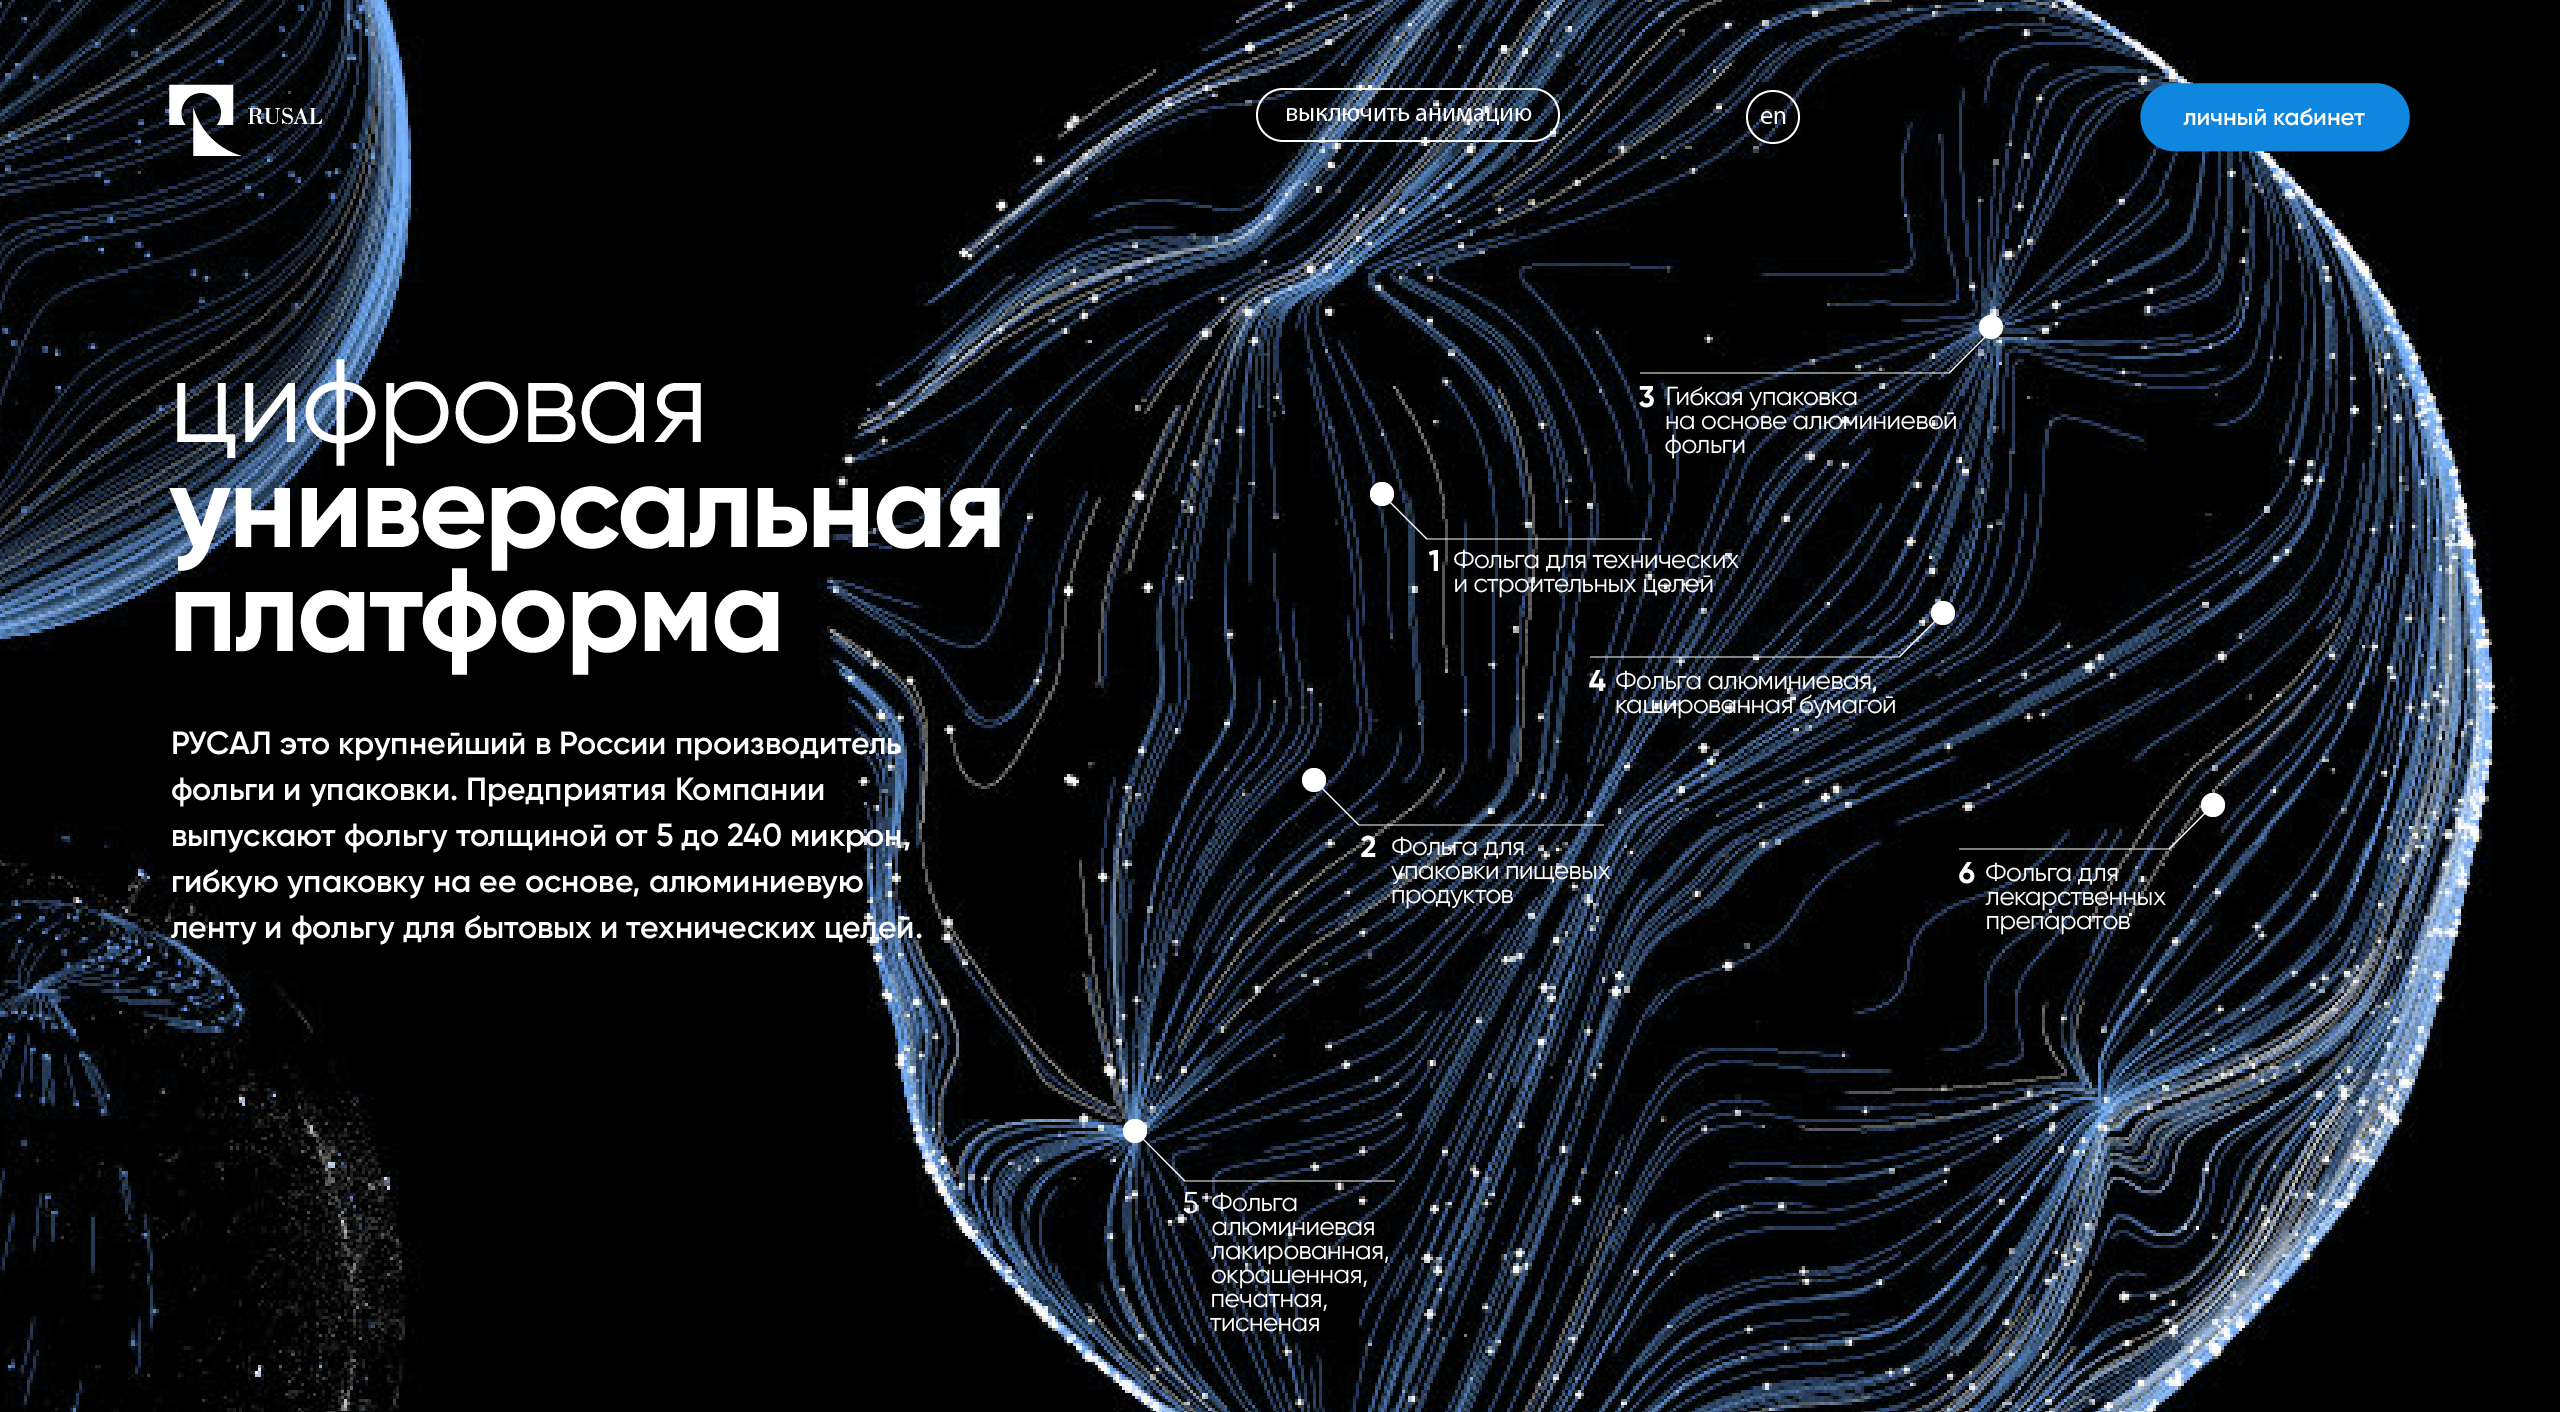
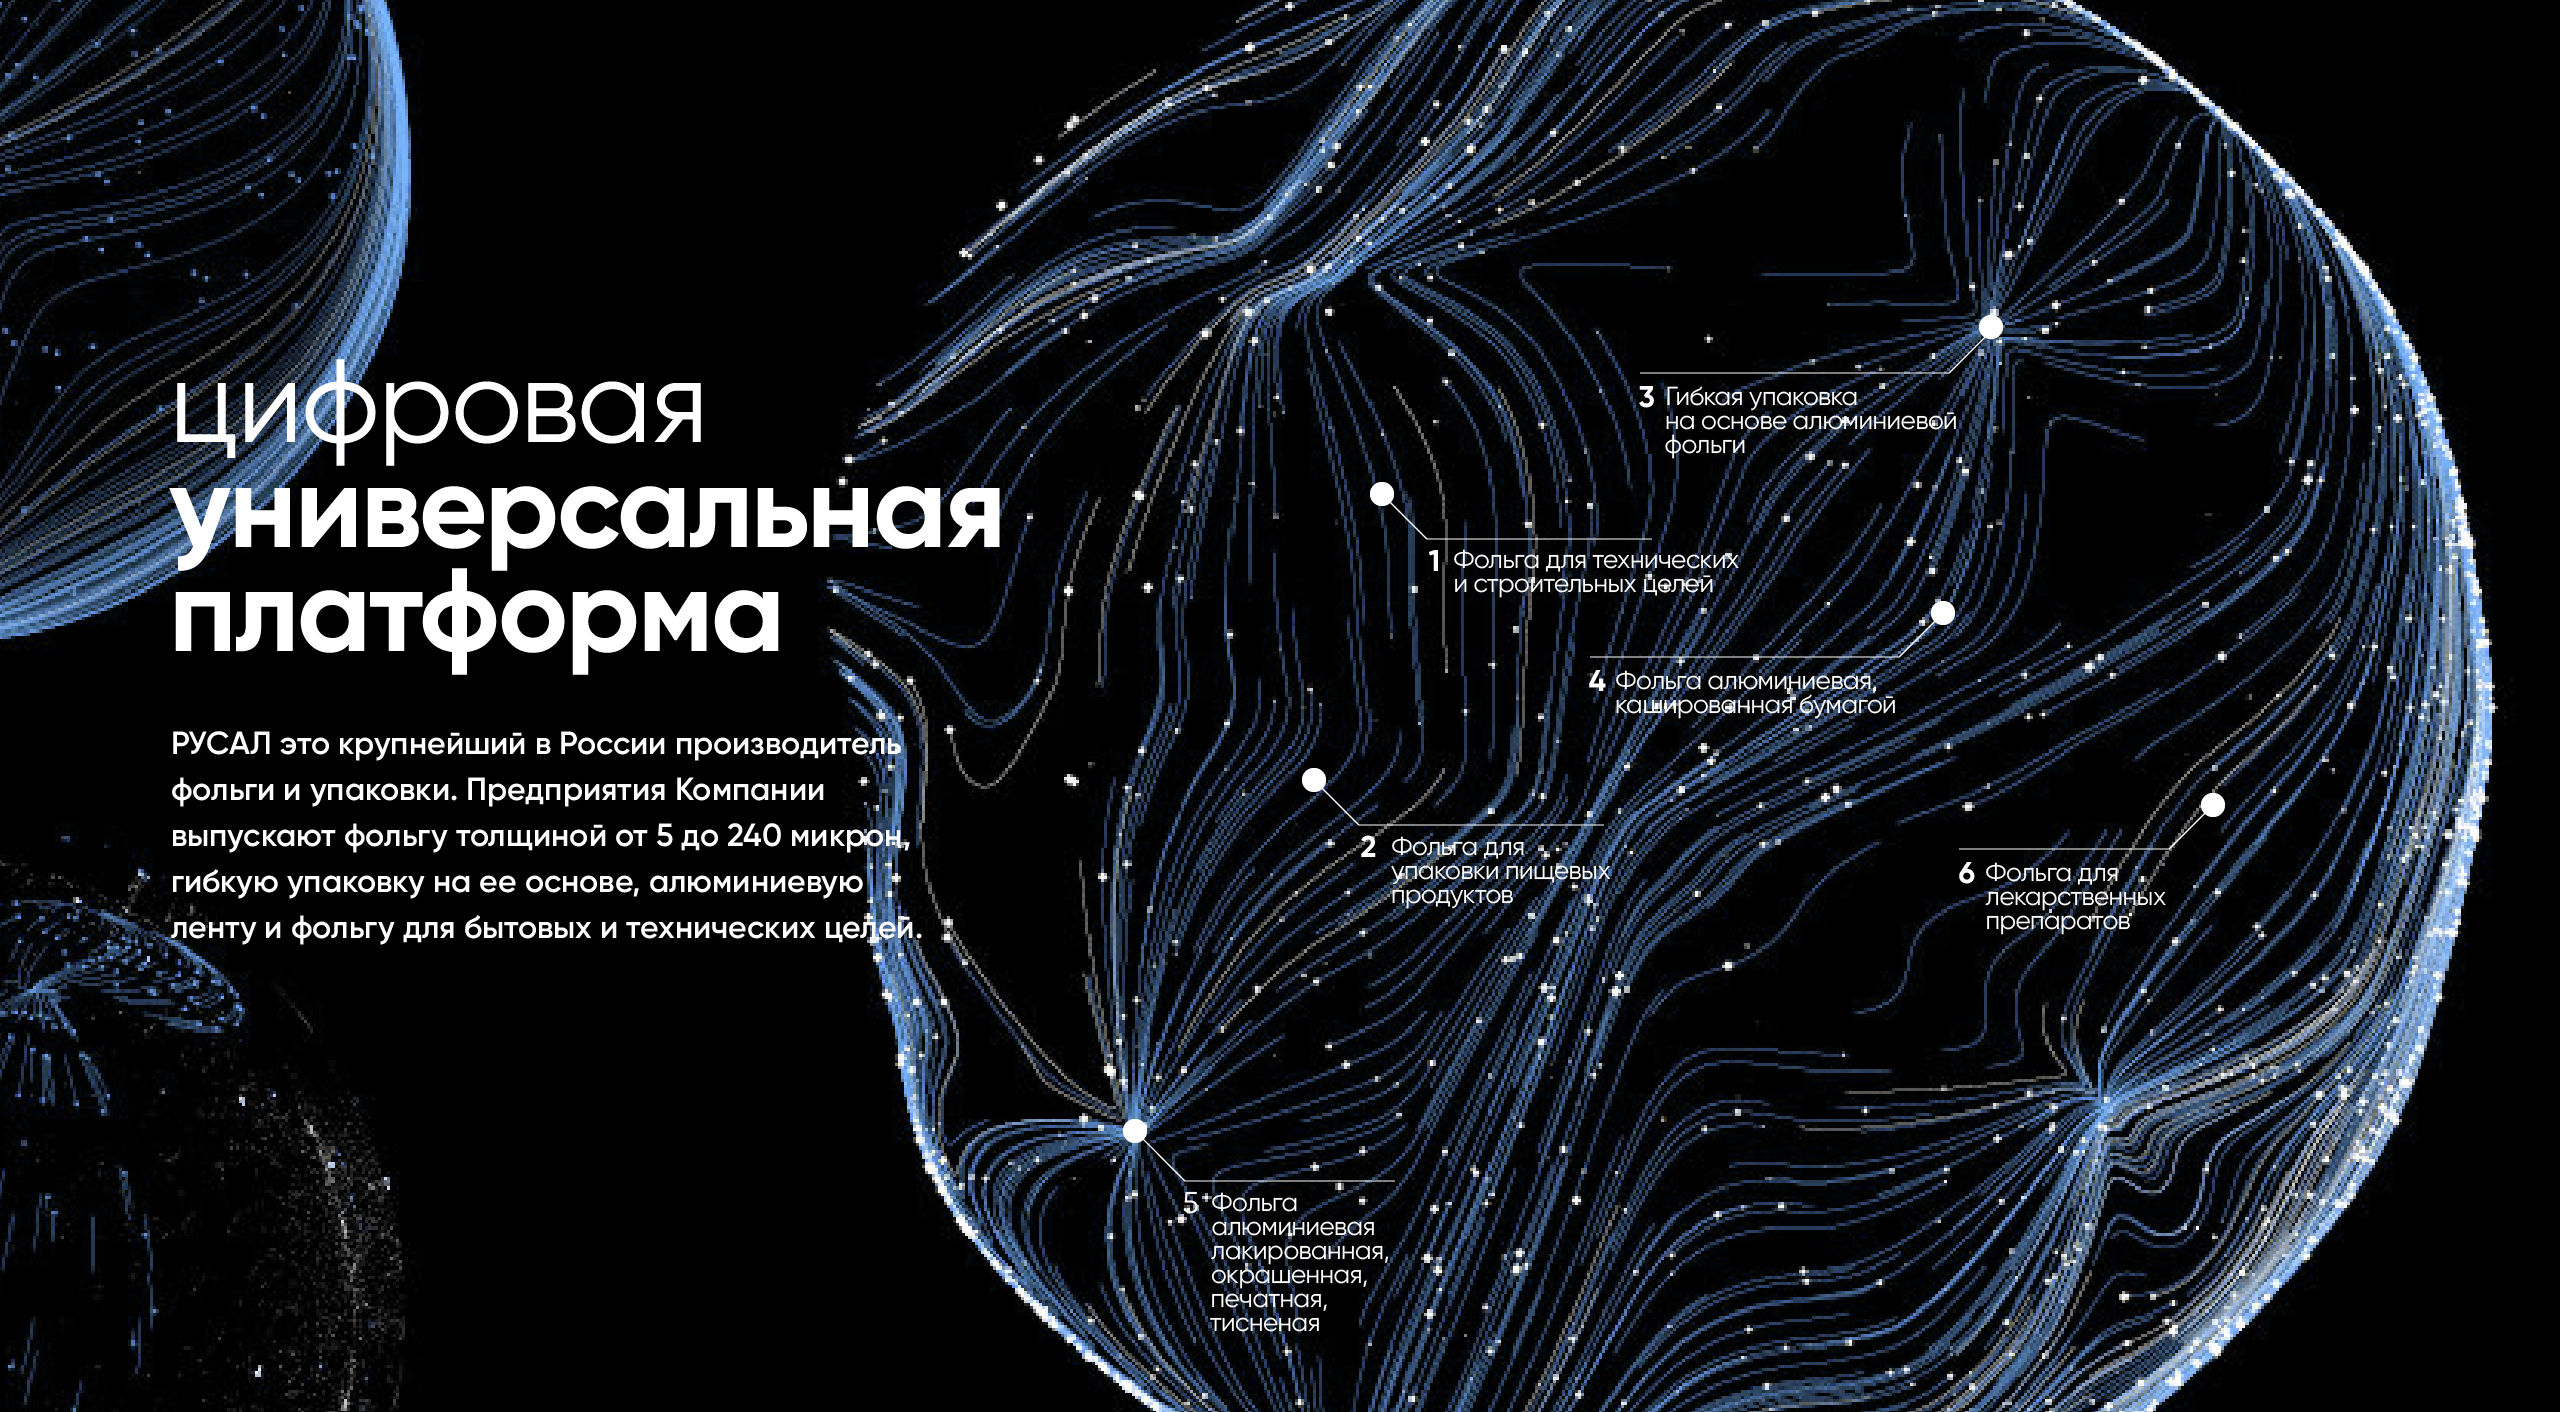
header

diff --git a/rusal-foil/src/Header.css b/rusal-foil/src/Header.css
@@ -1,0 +1,78 @@
+:root {
+  --blue: #1e90ff;
+  --white: #ffffff;
+}
+
+button:focus {
+  outline: 0;
+}
+
+.header {
+  position: fixed;
+  display: flex;
+  flex-direction: row;
+  justify-content: space-between;
+  max-width: 1440px;
+  width: 92%;
+  margin: 0px 4% 0px 4%;
+  padding-top: 20px;
+  z-index: 999;
+  /* backdrop-filter: blur(2px); */
+}
+
+.header__btn-container {
+  display: flex;
+  justify-content: flex-end;
+  /* width: 50%; */
+  height: 30px;
+}
+.header__logo {
+  height: 35px;
+  object-fit: contain;
+  object-position: center;
+}
+.header__allowLogo {
+  width: 100px;
+  object-fit: contain;
+  object-position: center;
+}
+.header__turnOffAnimation {
+  height: 35px;
+  border: 1px solid white;
+  border-radius: 20px;
+  background-color: black;
+  color: white;
+  padding-left: 20px;
+  padding-right: 20px;
+  margin-left: 40px;
+}
+
+.header__turnOffAnimation:hover,
+.header__languageChange:hover,
+.header__privateZone:hover {
+  opacity: 0.8;
+  transition: 0.3;
+  cursor: pointer;
+}
+
+.header__languageChange {
+  border: 1px solid white;
+  border-radius: 50%;
+  height: 35px;
+  width: 35px;
+  background-color: black;
+  color: white;
+  padding-left: 10px;
+  padding-right: 10px;
+  margin-left: 40px;
+}
+.header__privateZone {
+  border: 1px solid var(--blue);
+  border-radius: 20px;
+  background-color: var(--blue);
+  color: white;
+  height: 35px;
+  padding-left: 20px;
+  padding-right: 20px;
+  margin-left: 40px;
+}

diff --git a/rusal-foil/src/Header.jsx b/rusal-foil/src/Header.jsx
@@ -1,0 +1,19 @@
+import rusalLogo from './images/rusalLogo.svg'
+import allowLogo from './images/allow.svg'
+import './Header.css'
+
+function Header() {
+    return (
+        <section className="header">
+            <img src={rusalLogo} alt="Логотип Русал" className="header__logo" />
+            <img src={allowLogo} alt="Логотип Allow" className="header__allowLogo" />
+            <div className="header__btn-container">
+                <button className="header__turnOffAnimation">Выключить анимацию</button>
+                <button className="header__languageChange">en</button>
+                <button className="header__privateZone">Личный кабинет</button>
+            </div>
+        </section>
+    )
+}
+
+export default Header

diff --git a/rusal-foil/src/App.js b/rusal-foil/src/App.js
@@ -2,6 +2,7 @@
 import './App.css';
 import ReactPageScroller from 'react-page-scroller';
 import Page from './page.js'
+import Header from './Header.jsx'
 import im1 from './images/im1.png';
 import im2 from './images/im2.png';
 import im3 from './images/im3.png';
@@ -21,6 +22,7 @@ function App() {
     <div className="App">
       {/* <button >test</button> */}
       {/* onClick={goToPage(3)} */}
+      <Header/>
       <ReactPageScroller ref={c => this.reactPageScroller = c}>
         <Page img={im1} />
         <Page img={im2} />

diff --git a/rusal-foil/public/index.html b/rusal-foil/public/index.html
@@ -24,7 +24,7 @@
       work correctly both with client-side routing and a non-root public URL.
       Learn how to configure a non-root public URL by running `npm run build`.
     -->
-    <title>React App</title>
+    <title>Цифровая универсальная платформа</title>
   </head>
   <body>
     <noscript>You need to enable JavaScript to run this app.</noscript>

diff --git a/rusal-foil/src/App.css b/rusal-foil/src/App.css
@@ -1,5 +1,7 @@
+/* @import-normalize */
+
 body{
-  background-color: #000;
+  background-color: black;
 }
 .App {
   text-align: center;

diff --git a/rusal-foil/src/page.css b/rusal-foil/src/page.css
@@ -3,4 +3,5 @@
     width: 100%;
     object-fit: contain;
     object-position: center;
+    z-index: -1;
 }
